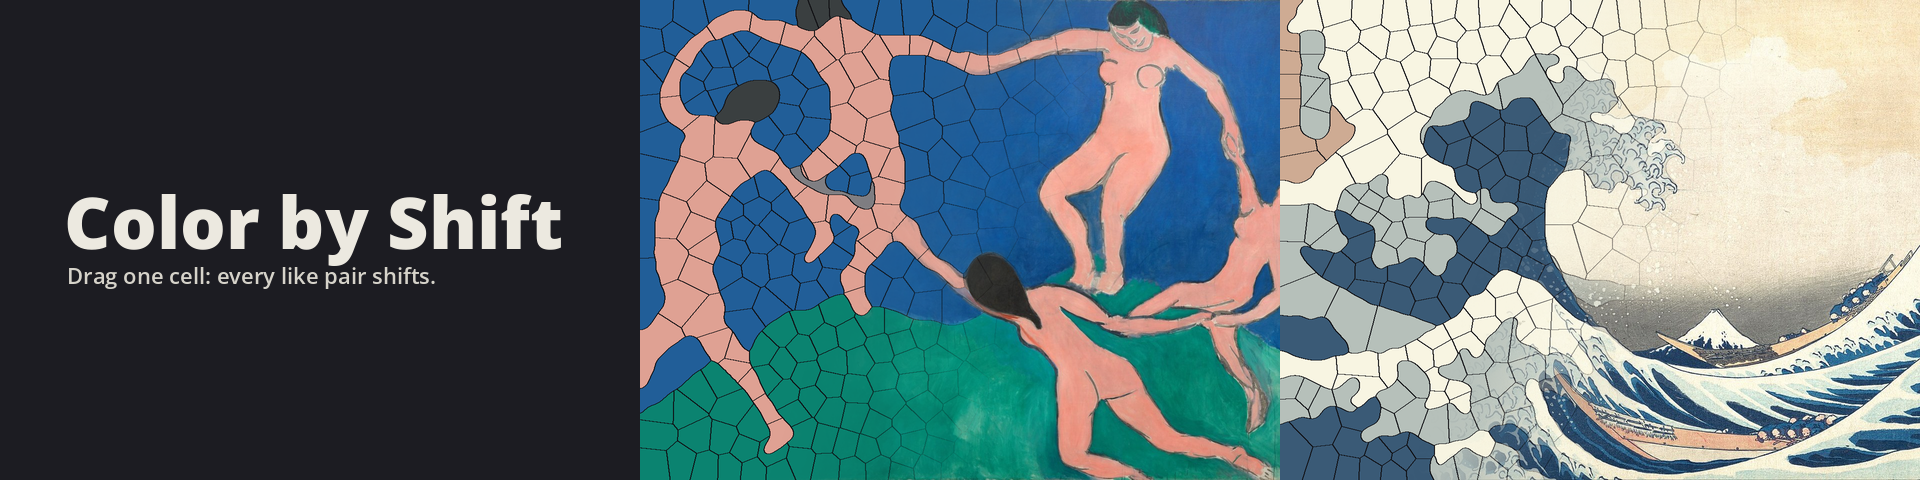
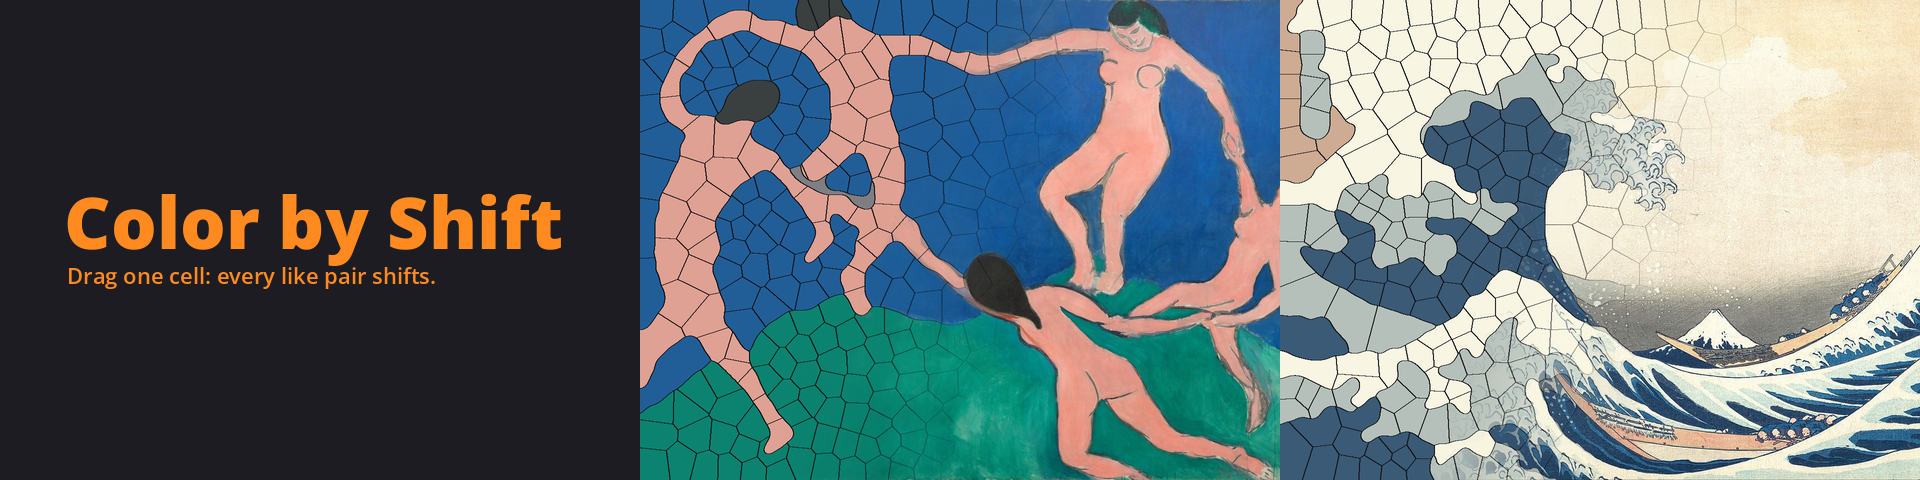
Step 4: cover on the Great Wave, title and tagline in orange, no colour squares

Changed region(s): [[0.0312, 0.4062, 0.3125, 0.5938]]

diff --git a/tools/make_cover.py b/tools/make_cover.py
@@ -1,15 +1,17 @@
 """Cover and banner for the itch.io page, drawn from a level of the game.
 
-    python tools/make_cover.py [--level P04] [--out docs/itch] [--anchor 0.5] [--band 0.5]
+    python tools/make_cover.py [--level P04] [--out docs/itch] [--banner P02,P04]
 
 The picture is the level's foam (cells in their picture colours, thin dark lines between
 cells) on the left, turning into the painting's scan on the right along a soft diagonal: the
-reward of the game. The title "Color by Shift" sits on a dark gradient, the level's five
-colours as small squares under it. Reads the exported game data (game/data/levels/<id>.json,
-<id>.labels.gz, game/data/paintings/<id>.jpg) and the font assets/fonts/OpenSans.ttf (SIL
-OFL). Writes <out>/cover_<id>.png (630 x 500, itch.io's recommended cover) and
-<out>/banner_<ids>.png (1920 x 480, twice the 960 px width of an itch page banner: the
-title on the left, then the paintings of --banner, each from cells to scan).
+reward of the game. The title "Color by Shift" and a tagline sit on a dark gradient, in
+the orange of the game (--ink; --palette adds the level's colours as small squares).
+
+Reads the exported game data (game/data/levels/<id>.json, <id>.labels.gz,
+game/data/paintings/<id>.jpg) and the font assets/fonts/OpenSans.ttf (SIL OFL). Writes
+<out>/cover_<id>.png (630 x 500, itch.io's recommended cover) and <out>/banner_<ids>.png
+(1920 x 480, twice the 960 px width of an itch page banner: the title on the left, then
+the paintings of --banner, each from cells to scan).
 """
 
 from __future__ import annotations
@@ -106,16 +108,22 @@ def fit(size: int, width: int) -> int:
 
 
 def draw_title(
-    img: Image.Image, level: dict | None, x: int, y: int, size: int, tagline: bool
+    img: Image.Image,
+    level: dict | None,
+    x: int,
+    y: int,
+    size: int,
+    tagline: bool,
+    ink: tuple[int, int, int] = TEXT,
 ) -> None:
     """Title, tagline under it, and the level's colours as small squares (if a level)."""
     d = ImageDraw.Draw(img)
     big = font(size, 800)
-    d.text((x, y), TITLE, font=big, fill=TEXT)
+    d.text((x, y), TITLE, font=big, fill=ink)
     small = font(round(size * 0.3), 600)
     ty = y + round(size * 1.22)
     if tagline:
-        d.text((x + 3, ty), TAGLINE, font=small, fill=(214, 211, 202))
+        d.text((x + 3, ty), TAGLINE, font=small, fill=ink)
     if level is None:
         return
     side = round(size * 0.22)
@@ -133,6 +141,8 @@ def main() -> None:
     ap.add_argument("--anchor", type=float, default=0.5, help="horizontal place of the cover crop")
     ap.add_argument("--banner", default="P02,P04", help="paintings beside the banner's title")
     ap.add_argument("--mid", type=float, default=0.5, help="where foam turns into the scan")
+    ap.add_argument("--ink", default="#ff8a1f", help="colour of the title and tagline")
+    ap.add_argument("--palette", action="store_true", help="the level's colours under the title")
     a = ap.parse_args()
     out = Path(a.out)
     out.mkdir(parents=True, exist_ok=True)
@@ -141,7 +151,9 @@ def main() -> None:
 
     cover = crop(pic, 630 / 500, a.anchor, 0.5).resize((630, 500), Image.LANCZOS)
     cover = shade(cover, "bottom", 0.5, 0.9)
-    draw_title(cover, level, 30, 500 - 34 - round(60 * 2.05), 60, tagline=True)
+    squares = level if a.palette else None
+    y = 500 - 34 - round(60 * (2.05 if a.palette else 1.62))
+    draw_title(cover, squares, 30, y, 60, tagline=True, ink=hex_rgb(a.ink))
     cover.save(out / f"cover_{a.level}.png")
 
     # banner: the title on the left, then whole paintings, each from cells to scan
@@ -157,7 +169,8 @@ def main() -> None:
         x -= 640
         banner.paste(tile, (x, 0))
     size = fit(110, x - 2 * 64)
-    draw_title(banner, None, 64, 480 // 2 - round(size * 0.95), size, tagline=True)
+    y = 480 // 2 - round(size * 0.95)
+    draw_title(banner, None, 64, y, size, tagline=True, ink=hex_rgb(a.ink))
     name = f"banner_{a.banner.replace(',', '_')}.png"
     banner.save(out / name)
     print("wrote", out / f"cover_{a.level}.png", out / name)

diff --git a/CLAUDE.md b/CLAUDE.md
@@ -81,7 +81,8 @@ Title "Color by Shift" (Chris, 2026-11-21; the repo and the Python package keep 
 - 2026-11-21: Chris: the hint points at the next move. game/sim/hint.gd: if some order of distinct solution moves (the reversed scramble, now exported as "solution" in each level JSON) solves the present colours, the next moves are the first moves of the shortest such orders; otherwise the undo of the latest move; the hint cell is the largest misplaced cell these moves swap. Tests: on every level, following the hints solves at par, and after a wrong move they undo it and solve in par + 1. 302 Godot checks, drag test, 131 Python tests pass.
 - 2026-11-21: Chris: hints after 6 s instead of 10 (hint.after_s in game/data/config.json).
 - 2026-11-22: Chris: level grid on a press of the level number (grey solved, white with a lock closed, orange current; open one by one, all after the last 2-move level); progress built with it (none existed): game opens at the saved current level; next button dimmed and Up/Down and back refused toward a closed level; open but unsolved levels after the unlock are white without a lock (my choice). Lock icon from Ionicons (fetch_icons.py), par added to index.json. 309 Godot checks, drag test, 131 Python tests pass; grid checked in the web build at 1280 x 720 and on a phone width; the grey of solved levels not seen on screen yet.
-- 2026-11-22: Chris: no title screen; cover and banner for itch.io. tools/make_cover.py: the level's foam turning into its scan along a soft diagonal, title in Open Sans ExtraBold (assets/fonts, SIL OFL, from google/fonts) on a dark gradient, tagline 'Drag one cell: every like pair shifts.', the level's five colours as small squares; cover 630 x 500 (itch.io's recommended size), banner 1920 x 480 (title panel + two whole paintings; twice the 960 px banner width, which is not settled in itch's community answers). docs/itch: cover_P02 (Matisse), cover_P04 (Great Wave), banner_P02_P04. Waiting for Chris's pick.
+- 2026-11-22: Chris: no title screen; cover and banner for itch.io. tools/make_cover.py: the level's foam turning into its scan along a soft diagonal, title in Open Sans ExtraBold (assets/fonts, SIL OFL, from google/fonts) on a dark gradient, tagline 'Drag one cell: every like pair shifts.', the level's five colours as small squares; cover 630 x 500 (itch.io's recommended size), banner 1920 x 480 (title panel + two whole paintings; twice the 960 px banner width, which is not settled in itch's community answers). docs/itch: cover_P02 (Matisse), cover_P04 (Great Wave), banner_P02_P04.
+- 2026-11-22: Chris: cover = Great Wave (P04); title and tagline in the game's orange #ff8a1f (--ink), no colour squares (--palette to bring them back); banner the same; docs/itch: cover_P04.png, banner_P02_P04.png.
 ## Deadline and jam
 
 - GitHub Game Off 2026, theme SHIFT. Submissions close 1 December 2026 at 21:37 UTC (13:37 PST). Target submission: Monday 30 November, evening (Paris time).
